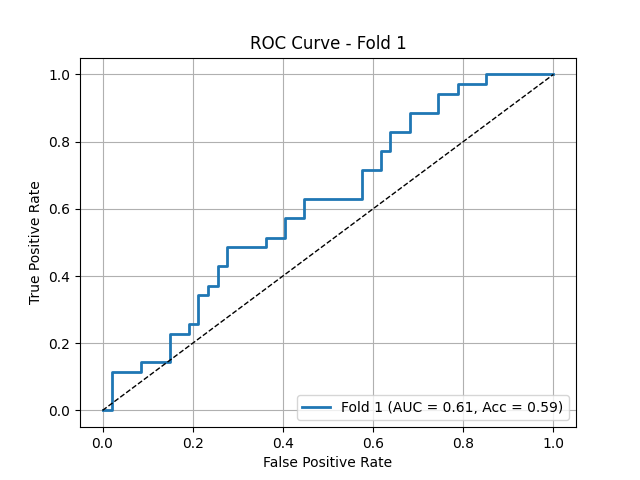
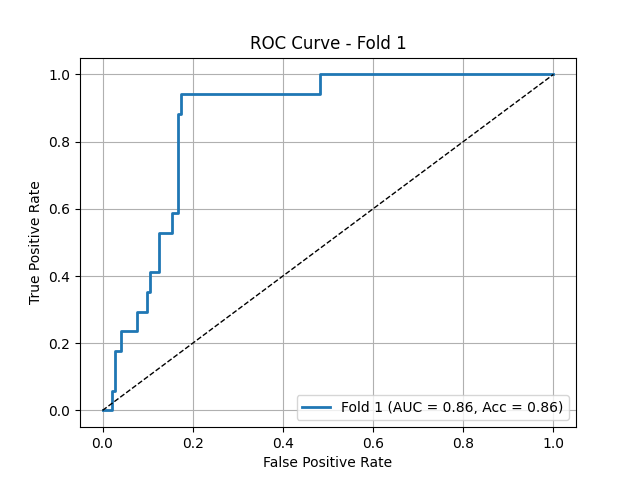
more distortion and elastic distortion

diff --git a/dataset_washu2.py b/dataset_washu2.py
@@ -82,8 +82,8 @@ train_transform = A.Compose([
     A.RandomRotate90(p=0.5),
 
 	A.ShiftScaleRotate(shift_limit=0.005, scale_limit=0.005, rotate_limit=10, border_mode=0, value=0, p=0.5), 
-    A.ElasticTransform(alpha = 5, sigma = 250, p=0.5),
-    A.GridDistortion(distort_limit=(-0.2,0.2), p=0.5),
+    A.ElasticTransform(alpha = 10, sigma = 250, p=0.5),
+    A.GridDistortion(distort_limit=(-0.4,0.4), p=0.5),
 	A.GaussNoise(std_range=(0.02, 0.05), p=0.9),
     A.RandomBrightnessContrast(brightness_limit=(0, 0.01), contrast_limit=(0, 0.01), p=0.5),
     # #A.CLAHE(clip_limit=.5, tile_grid_size=(8, 8), p=0.5),
